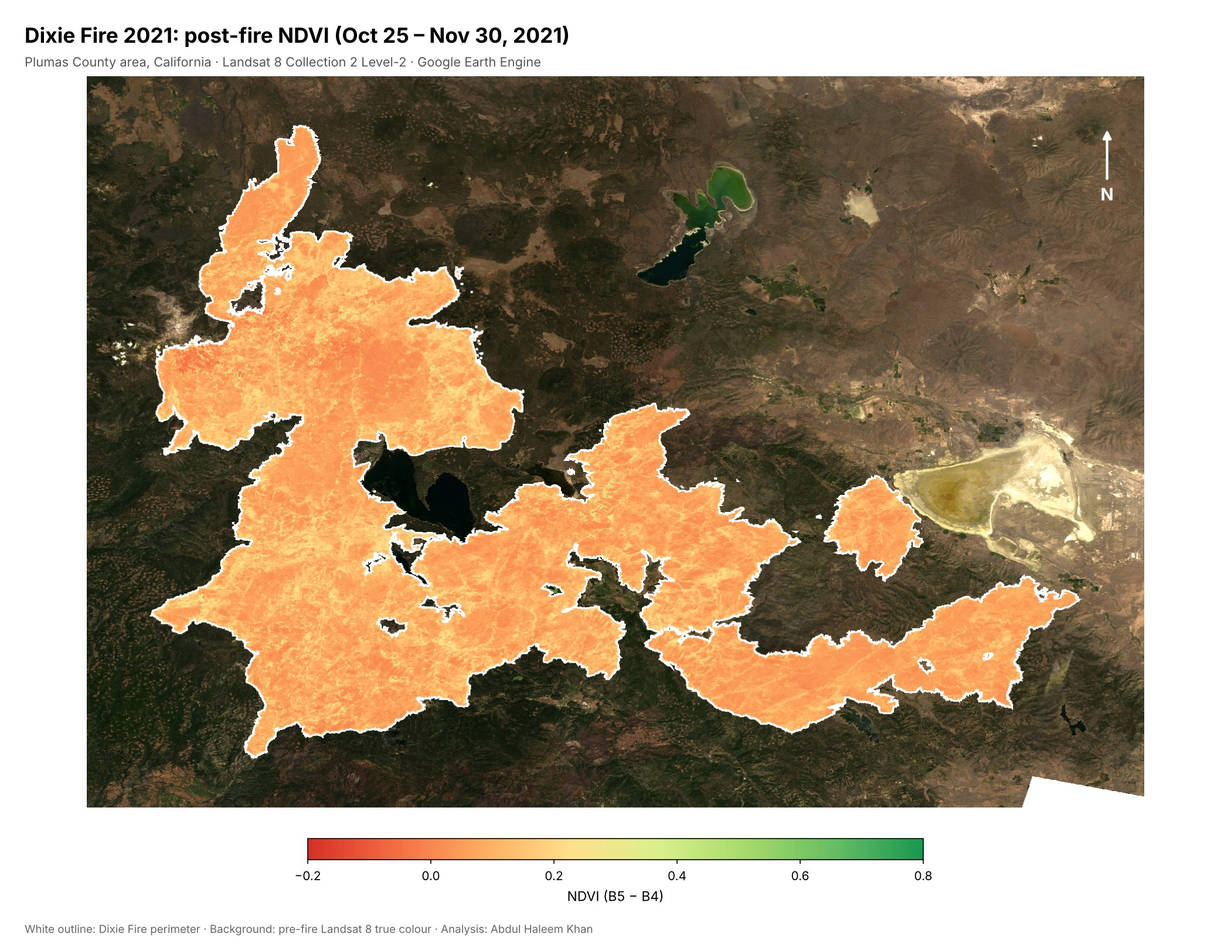
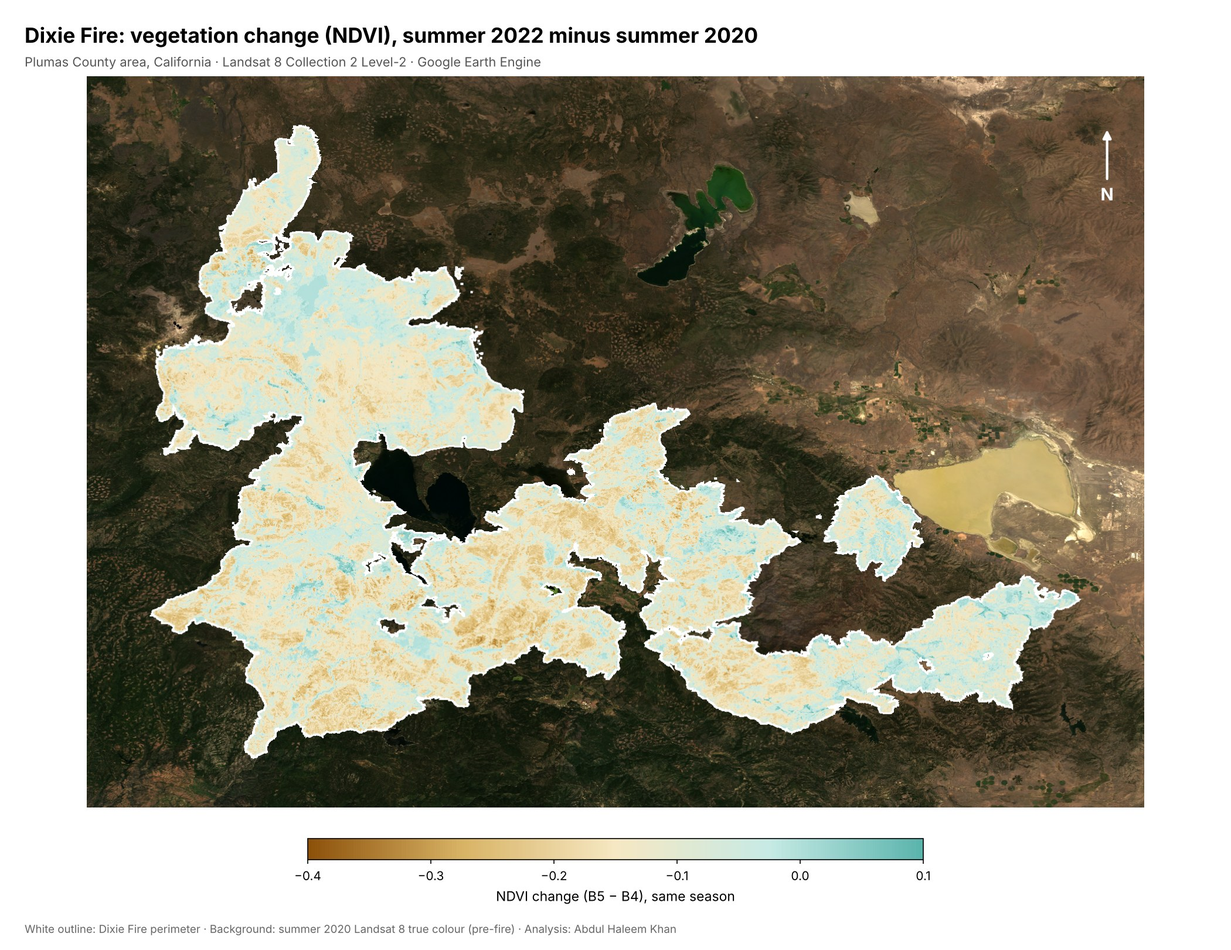
Dixie Fire v2: corrected method, new maps, chart and results
Claude-Session: https://claude.ai/code/session_019ix2VwBFEfSriveM5Esb5E

diff --git a/01-Remote-Sensing/gee-dixie-fire-lst-ndvi/code/dixie_fire_lst_ndvi.js b/01-Remote-Sensing/gee-dixie-fire-lst-ndvi/code/dixie_fire_lst_ndvi.js
@@ -1,5 +1,6 @@
 // Dixie Fire 2021 - Land Surface Temperature and NDVI Analysis (v2)
 // Google Earth Engine Code Editor script by Abdul Haleem Khan
+// Open in the Code Editor: https://code.earthengine.google.com/41b9b32b5c8690a4727865efe43eb71a
 //
 // Import used by this script (set in the Code Editor "Imports" panel):
 //   var table = ee.FeatureCollection('projects/ee-abdulhaleemk03/assets/DixieFire2021');  // Dixie Fire perimeter

diff --git a/tools/details.py b/tools/details.py
@@ -402,22 +402,22 @@ D["qgis-polygon-point-digitisation"] = dict(
               "Working view: digitised unit outlines with their labels on the georeferenced plan"])
 
 D["gee-dixie-fire-lst-ndvi"] = dict(
-    challenge="Measure how a very large wildfire changed the land surface, from heat to vegetation, using only free satellite data. The aim was to run everything in the cloud, over a 3,894 km² burn perimeter, without downloading a single scene.",
-    data=["Landsat 8 Collection 2 Level-2 surface reflectance and surface temperature (LANDSAT/LC08/C02/T1_L2), June–November 2021",
+    challenge="Measure how a very large wildfire changed the land surface, from heat to vegetation, using only free satellite data processed in the cloud over the 3,894 km² burn perimeter. The first version compared June (before the fire) with July–October (during it). Because of the seasonal cooling and smoke, it wrongly suggested the burned area had cooled, so the method had to be fixed.",
+    data=["Landsat 8 Collection 2 Level-2 surface reflectance and surface temperature (LANDSAT/LC08/C02/T1_L2), 2019–2022",
           "Dixie Fire perimeter uploaded as an Earth Engine asset (3,894 km²)",
-          "Periods: pre-fire Jun 1 – Jul 13 (7 scenes), during-fire Jul 13 – Oct 25 (16 scenes), post-fire Oct 25 – Nov 30, 2021 (6 scenes)"],
-    method=["Filtered the Landsat 8 collection to the fire perimeter and the June–November 2021 window",
-            "Converted thermal Band 10 (ST_B10) to land surface temperature in °C with the Collection 2 scale factors (× 0.00341802 + 149.0 − 273.15)",
-            "Calculated NDVI from Band 5 (NIR) and Band 4 (red) for every scene",
-            "Split the collection at the ignition date (13 July) and the containment date (25 October) and took median composites for each period",
-            "Subtracted pre-fire from during-fire LST to map temperature change",
-            "Built the app interface: title, layer list, LST and temperature-difference legends and an information panel",
-            "Charted mean LST and NDVI over the perimeter for every scene, and set up 30 m GeoTIFF exports to Google Drive for each LST layer and the difference map"],
-    findings=["Mean NDVI inside the perimeter fell from 0.24 before the fire to 0.09 after it, a drop of about 63%, showing extensive vegetation loss",
-              "The time-series chart tracks how surface temperature over the burn area changed through the fire season",
-              "Median LST over the perimeter: 35.1 °C before the fire and 33.6 °C during it. Smoke and cloud in the during-fire scenes lower the thermal signal, so much of the difference map shows cooling",
-              "Next step: apply the cloud-mask function (already written in the script) to every scene, and add a smoke filter, to sharpen the temperature-change map"],
-    captions=["Median land surface temperature inside the Dixie Fire perimeter during the fire (Landsat 8 Band 10)",
-              "Temperature change: during-fire minus pre-fire median LST",
-              "Post-fire NDVI inside the perimeter (Oct 25 – Nov 30, 2021)",
-              "The Earth Engine app: layers, legends and the LST time-series chart in the Code Editor"])
+          "Unburned control ring: a 5 km band around the perimeter",
+          "2021 fire season: ignition 13 July, containment 25 October; impact comparison: summer (Jun 15 – Aug 31) 2020 vs 2022"],
+    method=["Applied a QA_PIXEL mask to every Landsat scene to remove cloud, dilated cloud, cirrus, cloud shadow and snow",
+            "Converted thermal Band 10 to land surface temperature in °C with the Collection 2 scale factors, and calculated NDVI from Bands 5 and 4",
+            "Kept the 2021 fire-season layers (pre-, during- and post-fire median LST, post-fire NDVI)",
+            "Measured fire impact season to season: median summer 2022 minus median summer 2020, for both LST and NDVI, so normal seasonal cooling no longer hides the signal",
+            "Used a 5 km unburned ring around the perimeter as a control, to separate the fire effect from year-to-year weather",
+            "Printed burn-scar vs control-ring statistics, charted both regions from June 2020 to September 2022, and set up 30 m GeoTIFF exports for all change layers"],
+    findings=["Summer land surface temperature inside the perimeter rose from 34.2 °C (2020) to 43.9 °C (2022), +9.7 °C, while the unburned ring rose only 1.7 °C",
+              "Before the fire, the forest was 1.4–2.1 °C cooler than its surroundings (2019 and 2020). After the fire, it was 5.8 °C hotter: a swing of about 8 °C caused by the burn",
+              "Summer NDVI inside the perimeter fell from 0.24 to 0.13 (about −46%), while the control ring stayed at 0.21: vegetation loss limited to the burn scar",
+              "Lesson learned: comparing different seasons, without cloud masking, gave a false cooling signal. Season-to-season comparison with a control area gave a clear, defensible result"],
+    captions=["Land surface temperature change in the same season, summer 2022 minus summer 2020 (cloud-masked)",
+              "Summer means inside the burn perimeter vs the unburned 5 km ring, 2019, 2020 and 2022",
+              "Vegetation change (NDVI), summer 2022 minus summer 2020",
+              "Land surface temperature in the first summer after the fire (2022)"])

diff --git a/tools/projects.py b/tools/projects.py
@@ -28,11 +28,11 @@ add(slug="gee-dixie-fire-lst-ndvi", cat="remote-sensing", featured=True,
     title="Dixie Fire 2021: Land Surface Temperature & NDVI in Google Earth Engine", year="2021 fire season",
     client="Independent Earth Engine analysis",
     where="Dixie Fire, Plumas County area, California, USA", tools=["Google Earth Engine (JavaScript)", "Landsat 8 C2 L2", "LST", "NDVI", "Time series"],
-    summary="Google Earth Engine app that tracks the 2021 Dixie Fire, California's largest single wildfire, through Landsat 8 land surface temperature and NDVI before, during and after the fire, with legends, time-series charts and GeoTIFF exports.",
-    result="Interactive Earth Engine app with pre-, during- and post-fire LST, a temperature-difference layer, post-fire NDVI, LST and NDVI time-series charts and 30 m GeoTIFF exports.",
+    summary="Google Earth Engine analysis of the 2021 Dixie Fire, California's largest single wildfire: cloud-masked Landsat 8 land surface temperature and NDVI, compared season to season against an unburned control ring, showing the burn scar ran about 8 °C hotter the next summer.",
+    result="Earth Engine app with cloud-masked 2021 fire-season LST, summer 2022 vs 2020 LST and NDVI change maps, burn-scar vs control-ring statistics and charts, and 30 m GeoTIFF exports.",
     method=["Landsat 8 LST and NDVI in GEE"],
-    files=["code/dixie_fire_lst_ndvi.js (full Earth Engine script)", "Four maps (LST, temperature change, NDVI, app view)"],
-    links=[("Open in the Earth Engine Code Editor", "https://code.earthengine.google.com/5fbd35d270e92e2c852970e16b9c2db1"), ("View the script on GitHub", "https://github.com/Abdul-Haleem-Khan-RS-GIS/spatial-analysis-showcase/blob/main/01-Remote-Sensing/gee-dixie-fire-lst-ndvi/code/dixie_fire_lst_ndvi.js")])
+    files=["code/dixie_fire_lst_ndvi.js (full Earth Engine script)", "Maps: LST change, NDVI change, summer 2022 LST; summer comparison chart"],
+    links=[("Open in the Earth Engine Code Editor", "https://code.earthengine.google.com/41b9b32b5c8690a4727865efe43eb71a"), ("View the script on GitHub", "https://github.com/Abdul-Haleem-Khan-RS-GIS/spatial-analysis-showcase/blob/main/01-Remote-Sensing/gee-dixie-fire-lst-ndvi/code/dixie_fire_lst_ndvi.js")])
 add(slug="lulc-andijan-reservoir", cat="remote-sensing", featured=True,
     title="Land-Cover Classification: Supervised vs Unsupervised", year="2024", client="Upwork client (geomatics firm)",
     where="Andijan Reservoir, Uzbekistan / Kyrgyzstan", tools=["Sentinel-2", "Google Earth Engine", "Random Forest", "ArcGIS Pro"],

diff --git a/01-Remote-Sensing/gee-dixie-fire-lst-ndvi/README.md b/01-Remote-Sensing/gee-dixie-fire-lst-ndvi/README.md
@@ -4,53 +4,53 @@
 **Client:** Independent Earth Engine analysis  
 **Tools & data:** Google Earth Engine (JavaScript), Landsat 8 C2 L2, LST, NDVI, Time series
 
-![Median land surface temperature inside the Dixie Fire perimeter during the fire (Landsat 8 Band 10)](maps/gee-dixie-fire-lst-ndvi-1.jpg)
-*Figure 1. Median land surface temperature inside the Dixie Fire perimeter during the fire (Landsat 8 Band 10)*
+![Land surface temperature change in the same season, summer 2022 minus summer 2020 (cloud-masked)](maps/gee-dixie-fire-lst-ndvi-1.jpg)
+*Figure 1. Land surface temperature change in the same season, summer 2022 minus summer 2020 (cloud-masked)*
 
-![Temperature change: during-fire minus pre-fire median LST](maps/gee-dixie-fire-lst-ndvi-2.jpg)
-*Figure 2. Temperature change: during-fire minus pre-fire median LST*
+![Summer means inside the burn perimeter vs the unburned 5 km ring, 2019, 2020 and 2022](maps/gee-dixie-fire-lst-ndvi-2.jpg)
+*Figure 2. Summer means inside the burn perimeter vs the unburned 5 km ring, 2019, 2020 and 2022*
 
-![Post-fire NDVI inside the perimeter (Oct 25 – Nov 30, 2021)](maps/gee-dixie-fire-lst-ndvi-3.jpg)
-*Figure 3. Post-fire NDVI inside the perimeter (Oct 25 – Nov 30, 2021)*
+![Vegetation change (NDVI), summer 2022 minus summer 2020](maps/gee-dixie-fire-lst-ndvi-3.jpg)
+*Figure 3. Vegetation change (NDVI), summer 2022 minus summer 2020*
 
-![The Earth Engine app: layers, legends and the LST time-series chart in the Code Editor](maps/gee-dixie-fire-lst-ndvi-4.jpg)
-*Figure 4. The Earth Engine app: layers, legends and the LST time-series chart in the Code Editor*
+![Land surface temperature in the first summer after the fire (2022)](maps/gee-dixie-fire-lst-ndvi-4.jpg)
+*Figure 4. Land surface temperature in the first summer after the fire (2022)*
 
 ## Overview
-Google Earth Engine app that tracks the 2021 Dixie Fire, California's largest single wildfire, through Landsat 8 land surface temperature and NDVI before, during and after the fire, with legends, time-series charts and GeoTIFF exports.
+Google Earth Engine analysis of the 2021 Dixie Fire, California's largest single wildfire: cloud-masked Landsat 8 land surface temperature and NDVI, compared season to season against an unburned control ring, showing the burn scar ran about 8 °C hotter the next summer.
 
 ## Challenge
-Measure how a very large wildfire changed the land surface, from heat to vegetation, using only free satellite data. The aim was to run everything in the cloud, over a 3,894 km² burn perimeter, without downloading a single scene.
+Measure how a very large wildfire changed the land surface, from heat to vegetation, using only free satellite data processed in the cloud over the 3,894 km² burn perimeter. The first version compared June (before the fire) with July–October (during it). Because of the seasonal cooling and smoke, it wrongly suggested the burned area had cooled, so the method had to be fixed.
 
 ## Data
-- Landsat 8 Collection 2 Level-2 surface reflectance and surface temperature (LANDSAT/LC08/C02/T1_L2), June–November 2021
+- Landsat 8 Collection 2 Level-2 surface reflectance and surface temperature (LANDSAT/LC08/C02/T1_L2), 2019–2022
 - Dixie Fire perimeter uploaded as an Earth Engine asset (3,894 km²)
-- Periods: pre-fire Jun 1 – Jul 13 (7 scenes), during-fire Jul 13 – Oct 25 (16 scenes), post-fire Oct 25 – Nov 30, 2021 (6 scenes)
+- Unburned control ring: a 5 km band around the perimeter
+- 2021 fire season: ignition 13 July, containment 25 October; impact comparison: summer (Jun 15 – Aug 31) 2020 vs 2022
 
 ## Approach
-1. Filtered the Landsat 8 collection to the fire perimeter and the June–November 2021 window
-2. Converted thermal Band 10 (ST_B10) to land surface temperature in °C with the Collection 2 scale factors (× 0.00341802 + 149.0 − 273.15)
-3. Calculated NDVI from Band 5 (NIR) and Band 4 (red) for every scene
-4. Split the collection at the ignition date (13 July) and the containment date (25 October) and took median composites for each period
-5. Subtracted pre-fire from during-fire LST to map temperature change
-6. Built the app interface: title, layer list, LST and temperature-difference legends and an information panel
-7. Charted mean LST and NDVI over the perimeter for every scene, and set up 30 m GeoTIFF exports to Google Drive for each LST layer and the difference map
+1. Applied a QA_PIXEL mask to every Landsat scene to remove cloud, dilated cloud, cirrus, cloud shadow and snow
+2. Converted thermal Band 10 to land surface temperature in °C with the Collection 2 scale factors, and calculated NDVI from Bands 5 and 4
+3. Kept the 2021 fire-season layers (pre-, during- and post-fire median LST, post-fire NDVI)
+4. Measured fire impact season to season: median summer 2022 minus median summer 2020, for both LST and NDVI, so normal seasonal cooling no longer hides the signal
+5. Used a 5 km unburned ring around the perimeter as a control, to separate the fire effect from year-to-year weather
+6. Printed burn-scar vs control-ring statistics, charted both regions from June 2020 to September 2022, and set up 30 m GeoTIFF exports for all change layers
 
 ## Results
-- Mean NDVI inside the perimeter fell from 0.24 before the fire to 0.09 after it, a drop of about 63%, showing extensive vegetation loss
-- The time-series chart tracks how surface temperature over the burn area changed through the fire season
-- Median LST over the perimeter: 35.1 °C before the fire and 33.6 °C during it. Smoke and cloud in the during-fire scenes lower the thermal signal, so much of the difference map shows cooling
-- Next step: apply the cloud-mask function (already written in the script) to every scene, and add a smoke filter, to sharpen the temperature-change map
+- Summer land surface temperature inside the perimeter rose from 34.2 °C (2020) to 43.9 °C (2022), +9.7 °C, while the unburned ring rose only 1.7 °C
+- Before the fire, the forest was 1.4–2.1 °C cooler than its surroundings (2019 and 2020). After the fire, it was 5.8 °C hotter: a swing of about 8 °C caused by the burn
+- Summer NDVI inside the perimeter fell from 0.24 to 0.13 (about −46%), while the control ring stayed at 0.21: vegetation loss limited to the burn scar
+- Lesson learned: comparing different seasons, without cloud masking, gave a false cooling signal. Season-to-season comparison with a control area gave a clear, defensible result
 
 ## Links
 
-- [Open in the Earth Engine Code Editor](https://code.earthengine.google.com/5fbd35d270e92e2c852970e16b9c2db1)
+- [Open in the Earth Engine Code Editor](https://code.earthengine.google.com/41b9b32b5c8690a4727865efe43eb71a)
 - [View the script on GitHub](https://github.com/Abdul-Haleem-Khan-RS-GIS/spatial-analysis-showcase/blob/main/01-Remote-Sensing/gee-dixie-fire-lst-ndvi/code/dixie_fire_lst_ndvi.js)
 
 ## Deliverables
 
 - code/dixie_fire_lst_ndvi.js (full Earth Engine script)
-- Four maps (LST, temperature change, NDVI, app view)
+- Maps: LST change, NDVI change, summer 2022 LST; summer comparison chart
 
 ---
 [← All projects](../../README.md) · [Portfolio website](https://abdul-haleem-khan-rs-gis.github.io/Geospatial_Portfolio/projects/gee-dixie-fire-lst-ndvi.html)
